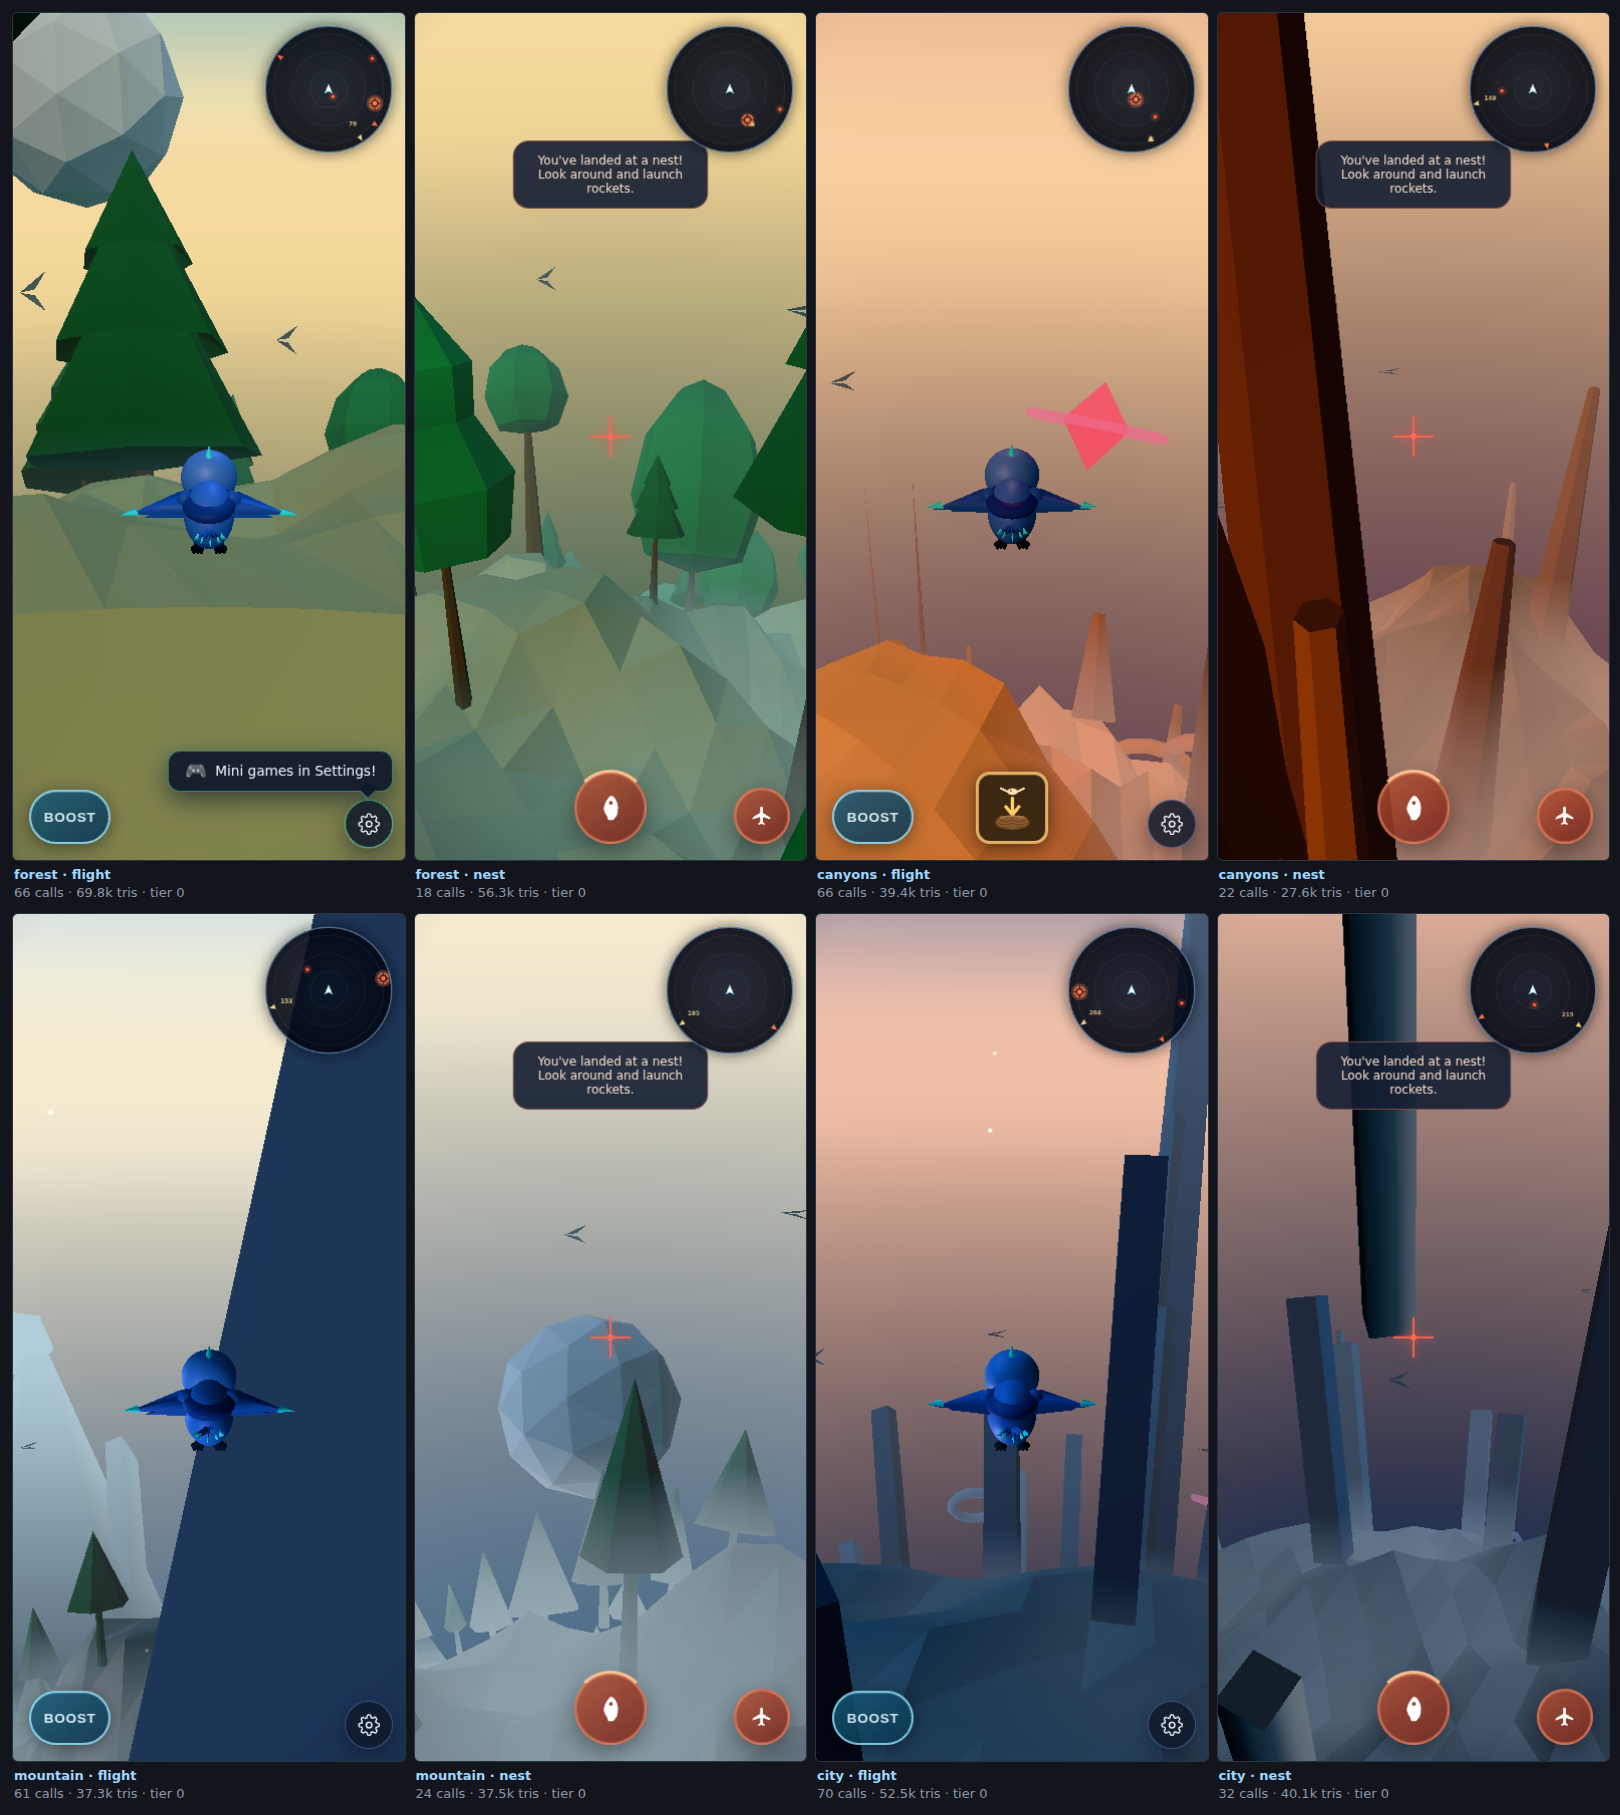
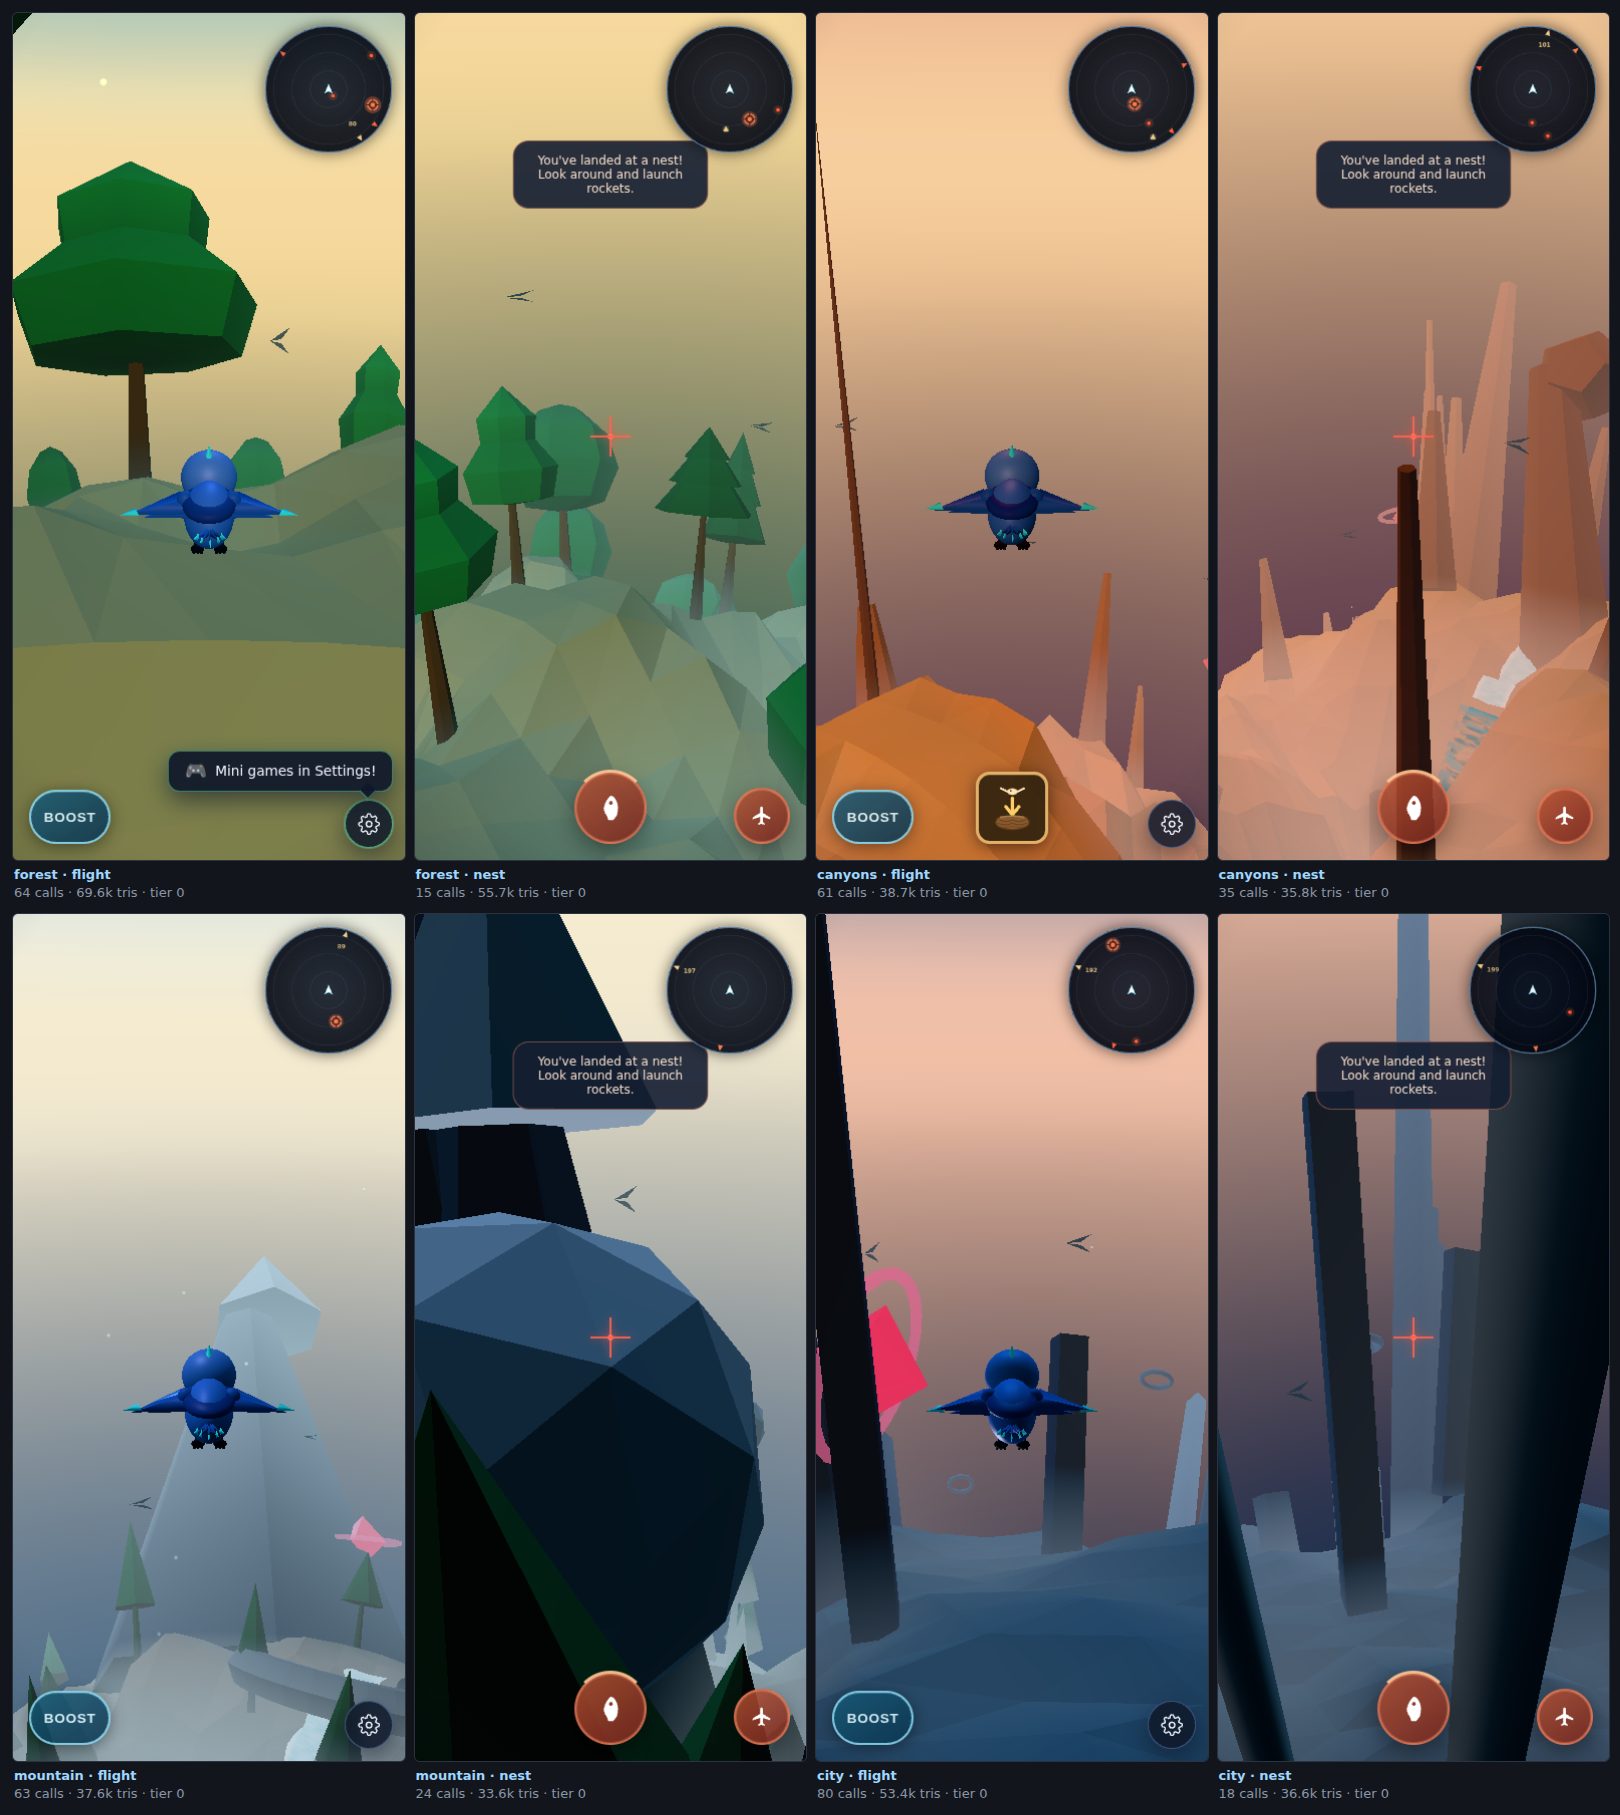
Reject nests whose outlook is a wall
A perch is a place you sit and LOOK, so a nest with a cliff twelve units
in front of it is worse than no nest at all — the corrected perch camera
opens on rock. nest-occlusion clears props within five units of the
camera, which is right for a branch in the way and useless against a
mountainside.

Each candidate now sweeps eight directions around its own horizon at
perch height and is dropped unless five of them are clear of any
collider out to 22 units. The collider list already exists and is
exactly the set of solid things in the world, so this costs one pass at
build time and nothing at runtime.

Five of eight rather than all eight on purpose: a nest tucked against
one cliff with an open view the other way is a good perch, not a bad
one, and requiring a full circle would delete most mountain nests.

The first attempt used 13 units and half the ring, which was not enough
for a peak — the perch still opened on rock.

Claude-Session: https://claude.ai/code/session_015qCAkGctP5i57jyzA2Wfrc

diff --git a/src/environment/spherical-world.js b/src/environment/spherical-world.js
@@ -2778,6 +2778,61 @@ export function createSphericalWorld(scene, { three, variant = 'forest', definit
       proximityTargets,
     }) || [];
   }
+  // Reject nests whose outlook is a wall.
+  //
+  // A perch is a place you sit and LOOK, so a nest with a cliff face or a
+  // peak twelve units in front of it is worse than no nest at all — the
+  // corrected perch camera opens on rock. nest-occlusion clears props within
+  // five units of the camera, which is right for a branch in the way and
+  // useless against a mountainside.
+  //
+  // Cheapest correct test: sample the ring of directions around each
+  // candidate at perch height and require that a majority of them are clear
+  // of any collider. The collider list already exists and is exactly the set
+  // of solid things in the world.
+  if (nestablePositions.length && collisionSystem?.objectColliders?.length) {
+    const CLEARANCE = 22;
+    const SAMPLES = 8;
+    const blockers = collisionSystem.objectColliders;
+    const before = nestablePositions.length;
+    nestablePositions = nestablePositions.filter((candidate) => {
+      const p = candidate.position;
+      const n = candidate.surfaceNormal;
+      if (!p || !n) return true;
+      // A tangent basis at the nest, to sweep the horizon around it.
+      const upx = n.x, upy = n.y, upz = n.z;
+      let ax = 0, ay = 1, az = 0;
+      if (Math.abs(upy) > 0.9) { ax = 1; ay = 0; }
+      // t1 = up x a, t2 = up x t1  (both tangent to the surface)
+      let t1x = upy * az - upz * ay, t1y = upz * ax - upx * az, t1z = upx * ay - upy * ax;
+      const t1l = Math.hypot(t1x, t1y, t1z) || 1;
+      t1x /= t1l; t1y /= t1l; t1z /= t1l;
+      const t2x = upy * t1z - upz * t1y, t2y = upz * t1x - upx * t1z, t2z = upx * t1y - upy * t1x;
+
+      let clear = 0;
+      for (let k = 0; k < SAMPLES; k++) {
+        const a = (k / SAMPLES) * Math.PI * 2;
+        const dx = Math.cos(a) * t1x + Math.sin(a) * t2x;
+        const dy = Math.cos(a) * t1y + Math.sin(a) * t2y;
+        const dz = Math.cos(a) * t1z + Math.sin(a) * t2z;
+        const sx = p.x + dx * CLEARANCE, sy = p.y + dy * CLEARANCE, sz = p.z + dz * CLEARANCE;
+        let blocked = false;
+        for (let b = 0; b < blockers.length; b++) {
+          const c = blockers[b];
+          const r = c.radius;
+          const ddx = sx - c.position.x, ddy = sy - c.position.y, ddz = sz - c.position.z;
+          if (ddx * ddx + ddy * ddy + ddz * ddz < r * r) { blocked = true; break; }
+        }
+        if (!blocked) clear++;
+      }
+      // Half the horizon open is enough: a nest tucked against one cliff with
+      // a view the other way is a good perch, not a bad one.
+      return clear >= SAMPLES * 0.625;
+    });
+    const dropped = before - nestablePositions.length;
+    if (dropped) console.log(`[SphericalWorld] dropped ${dropped} nest(s) with a blocked outlook`);
+  }
+
   // Landmarks are big, hand-placed and NOT instanced, and nest occlusion only
   // clears instanced props — so a nest that happens to sit inside or behind a
   // landmark has its perch view permanently blocked by it. The canyon and

diff --git a/sw.js b/sw.js
@@ -5,7 +5,7 @@
 
 // Bumped for the /grokrogue bypass below: the version change evicts CORE_CACHE
 // on activate so the new sibling route cannot inherit stale shell handling.
-const CACHE_VERSION = 'v32-2026-09-06-boost-speed';
+const CACHE_VERSION = 'v33-2026-09-06-perch-outlook';
 
 /**
  * Paths owned by other Birb Labs artefacts. This worker must not touch them.
